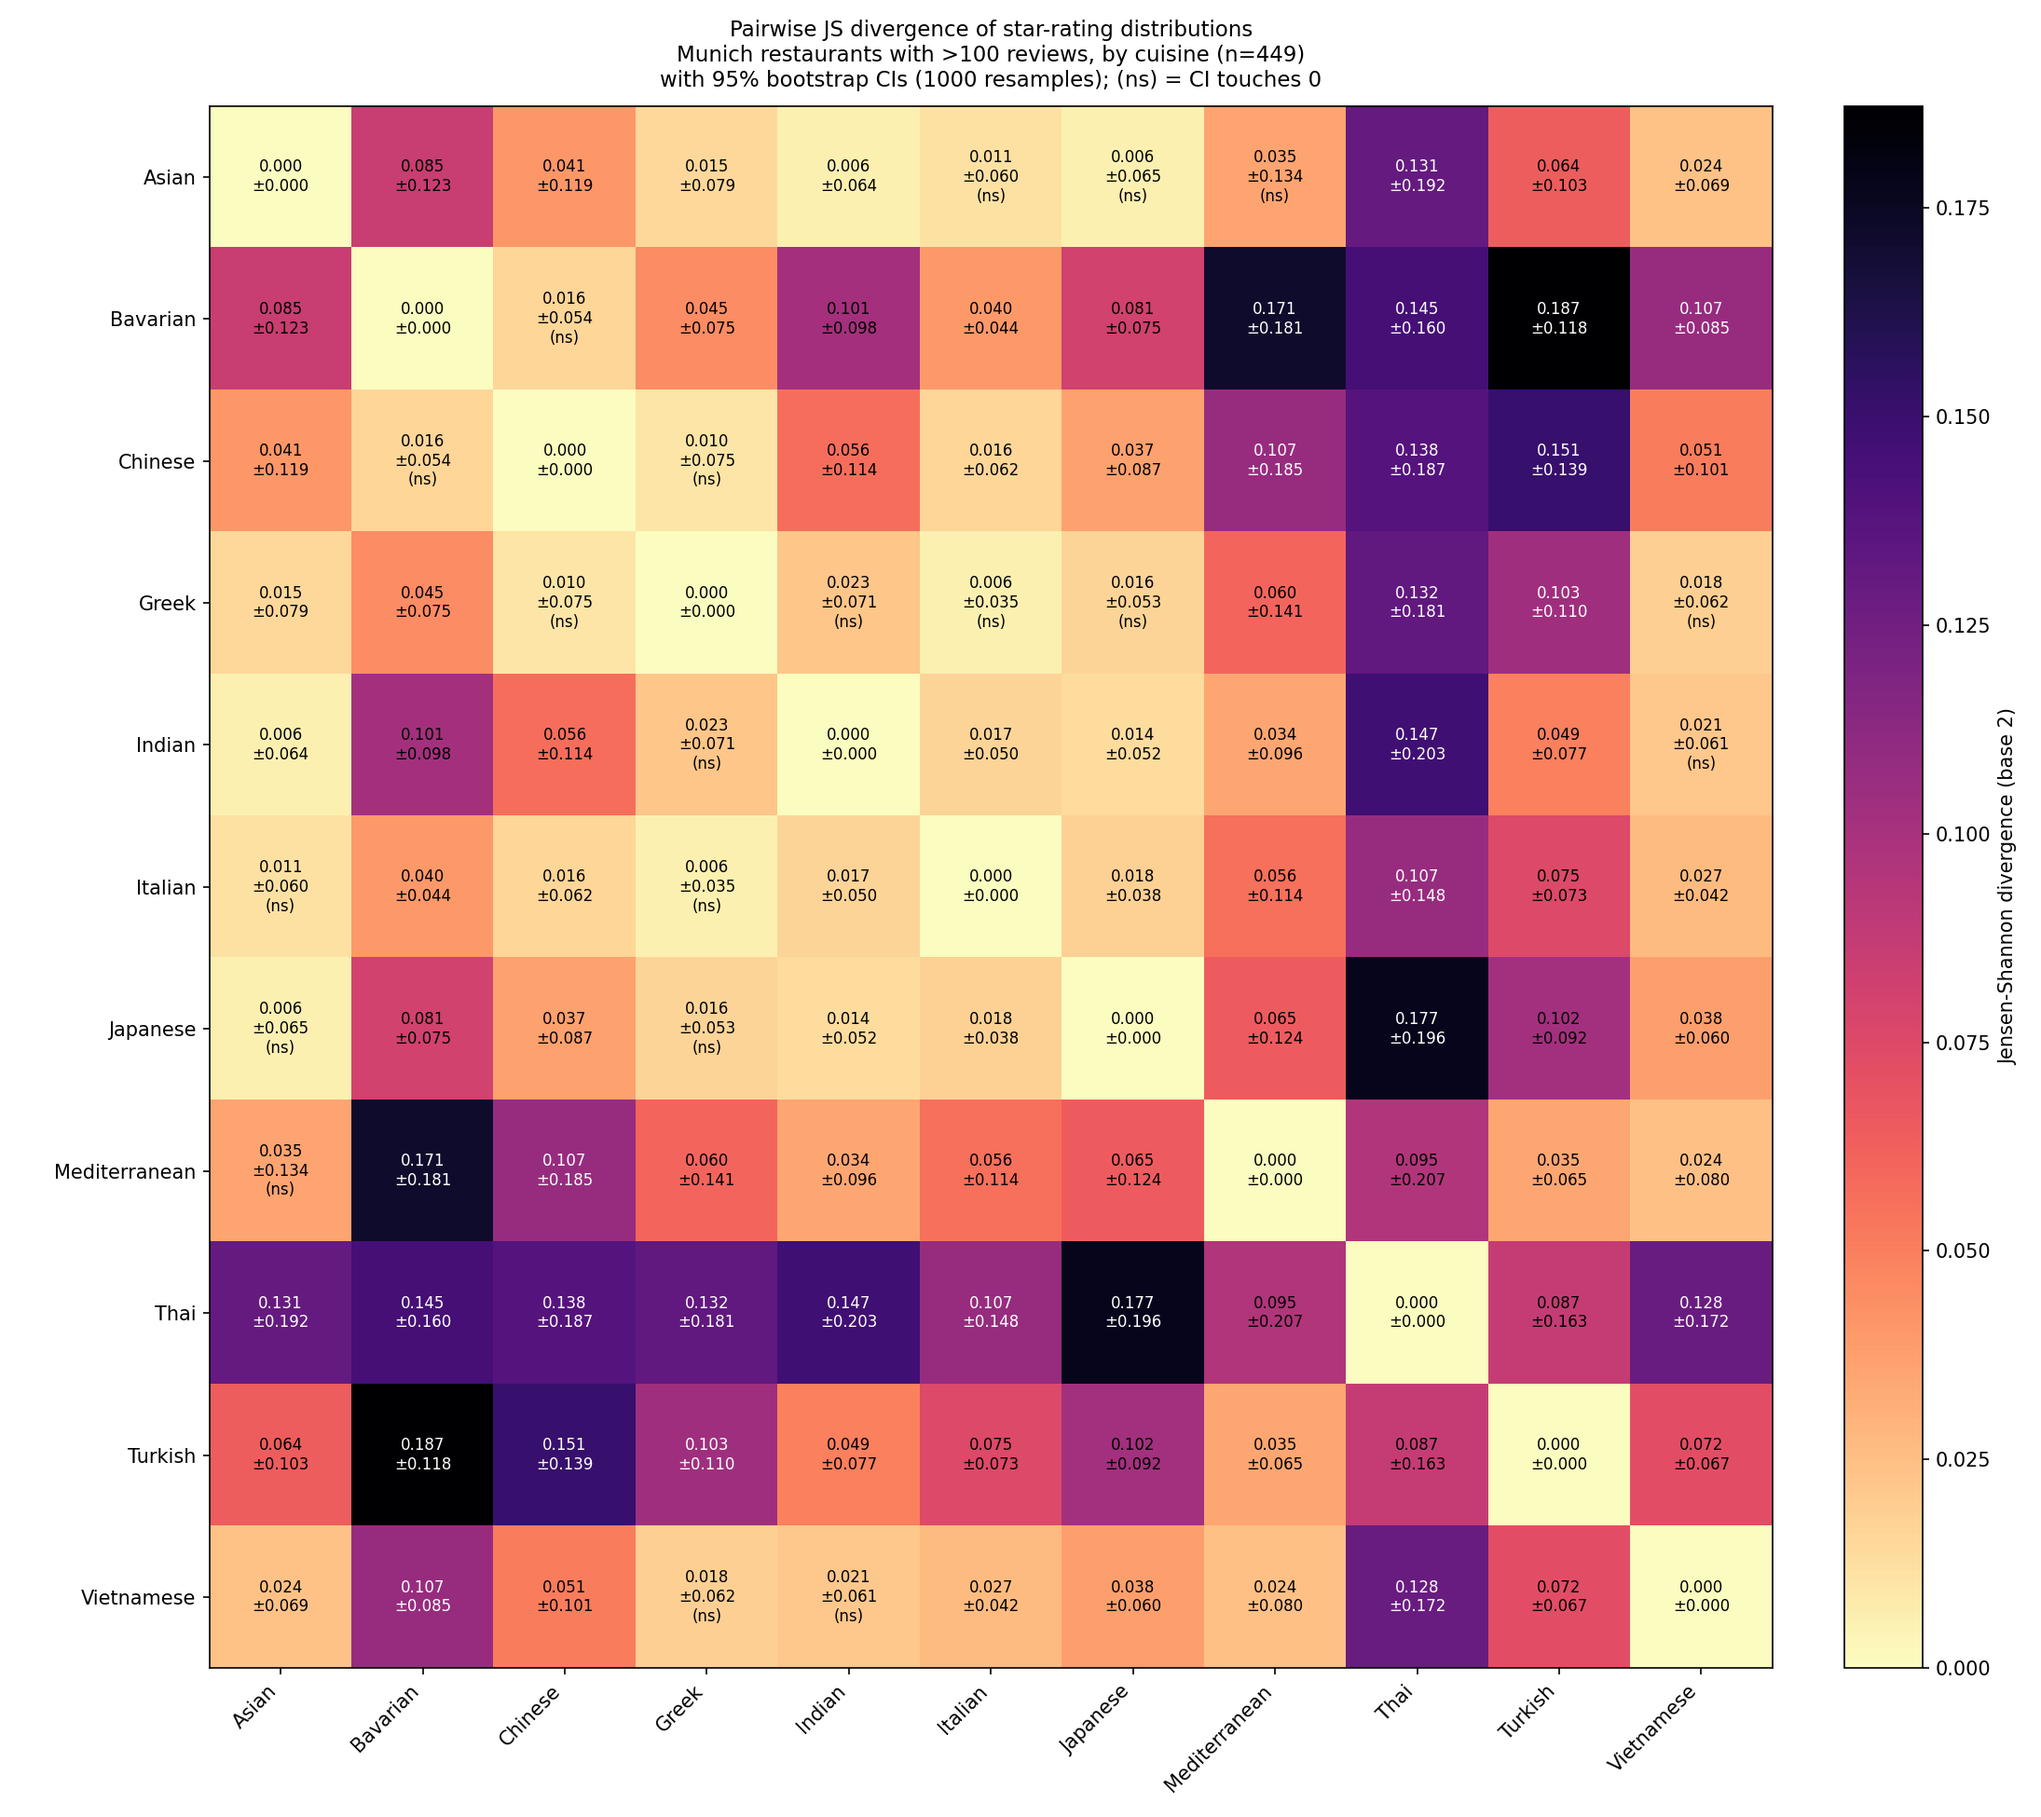
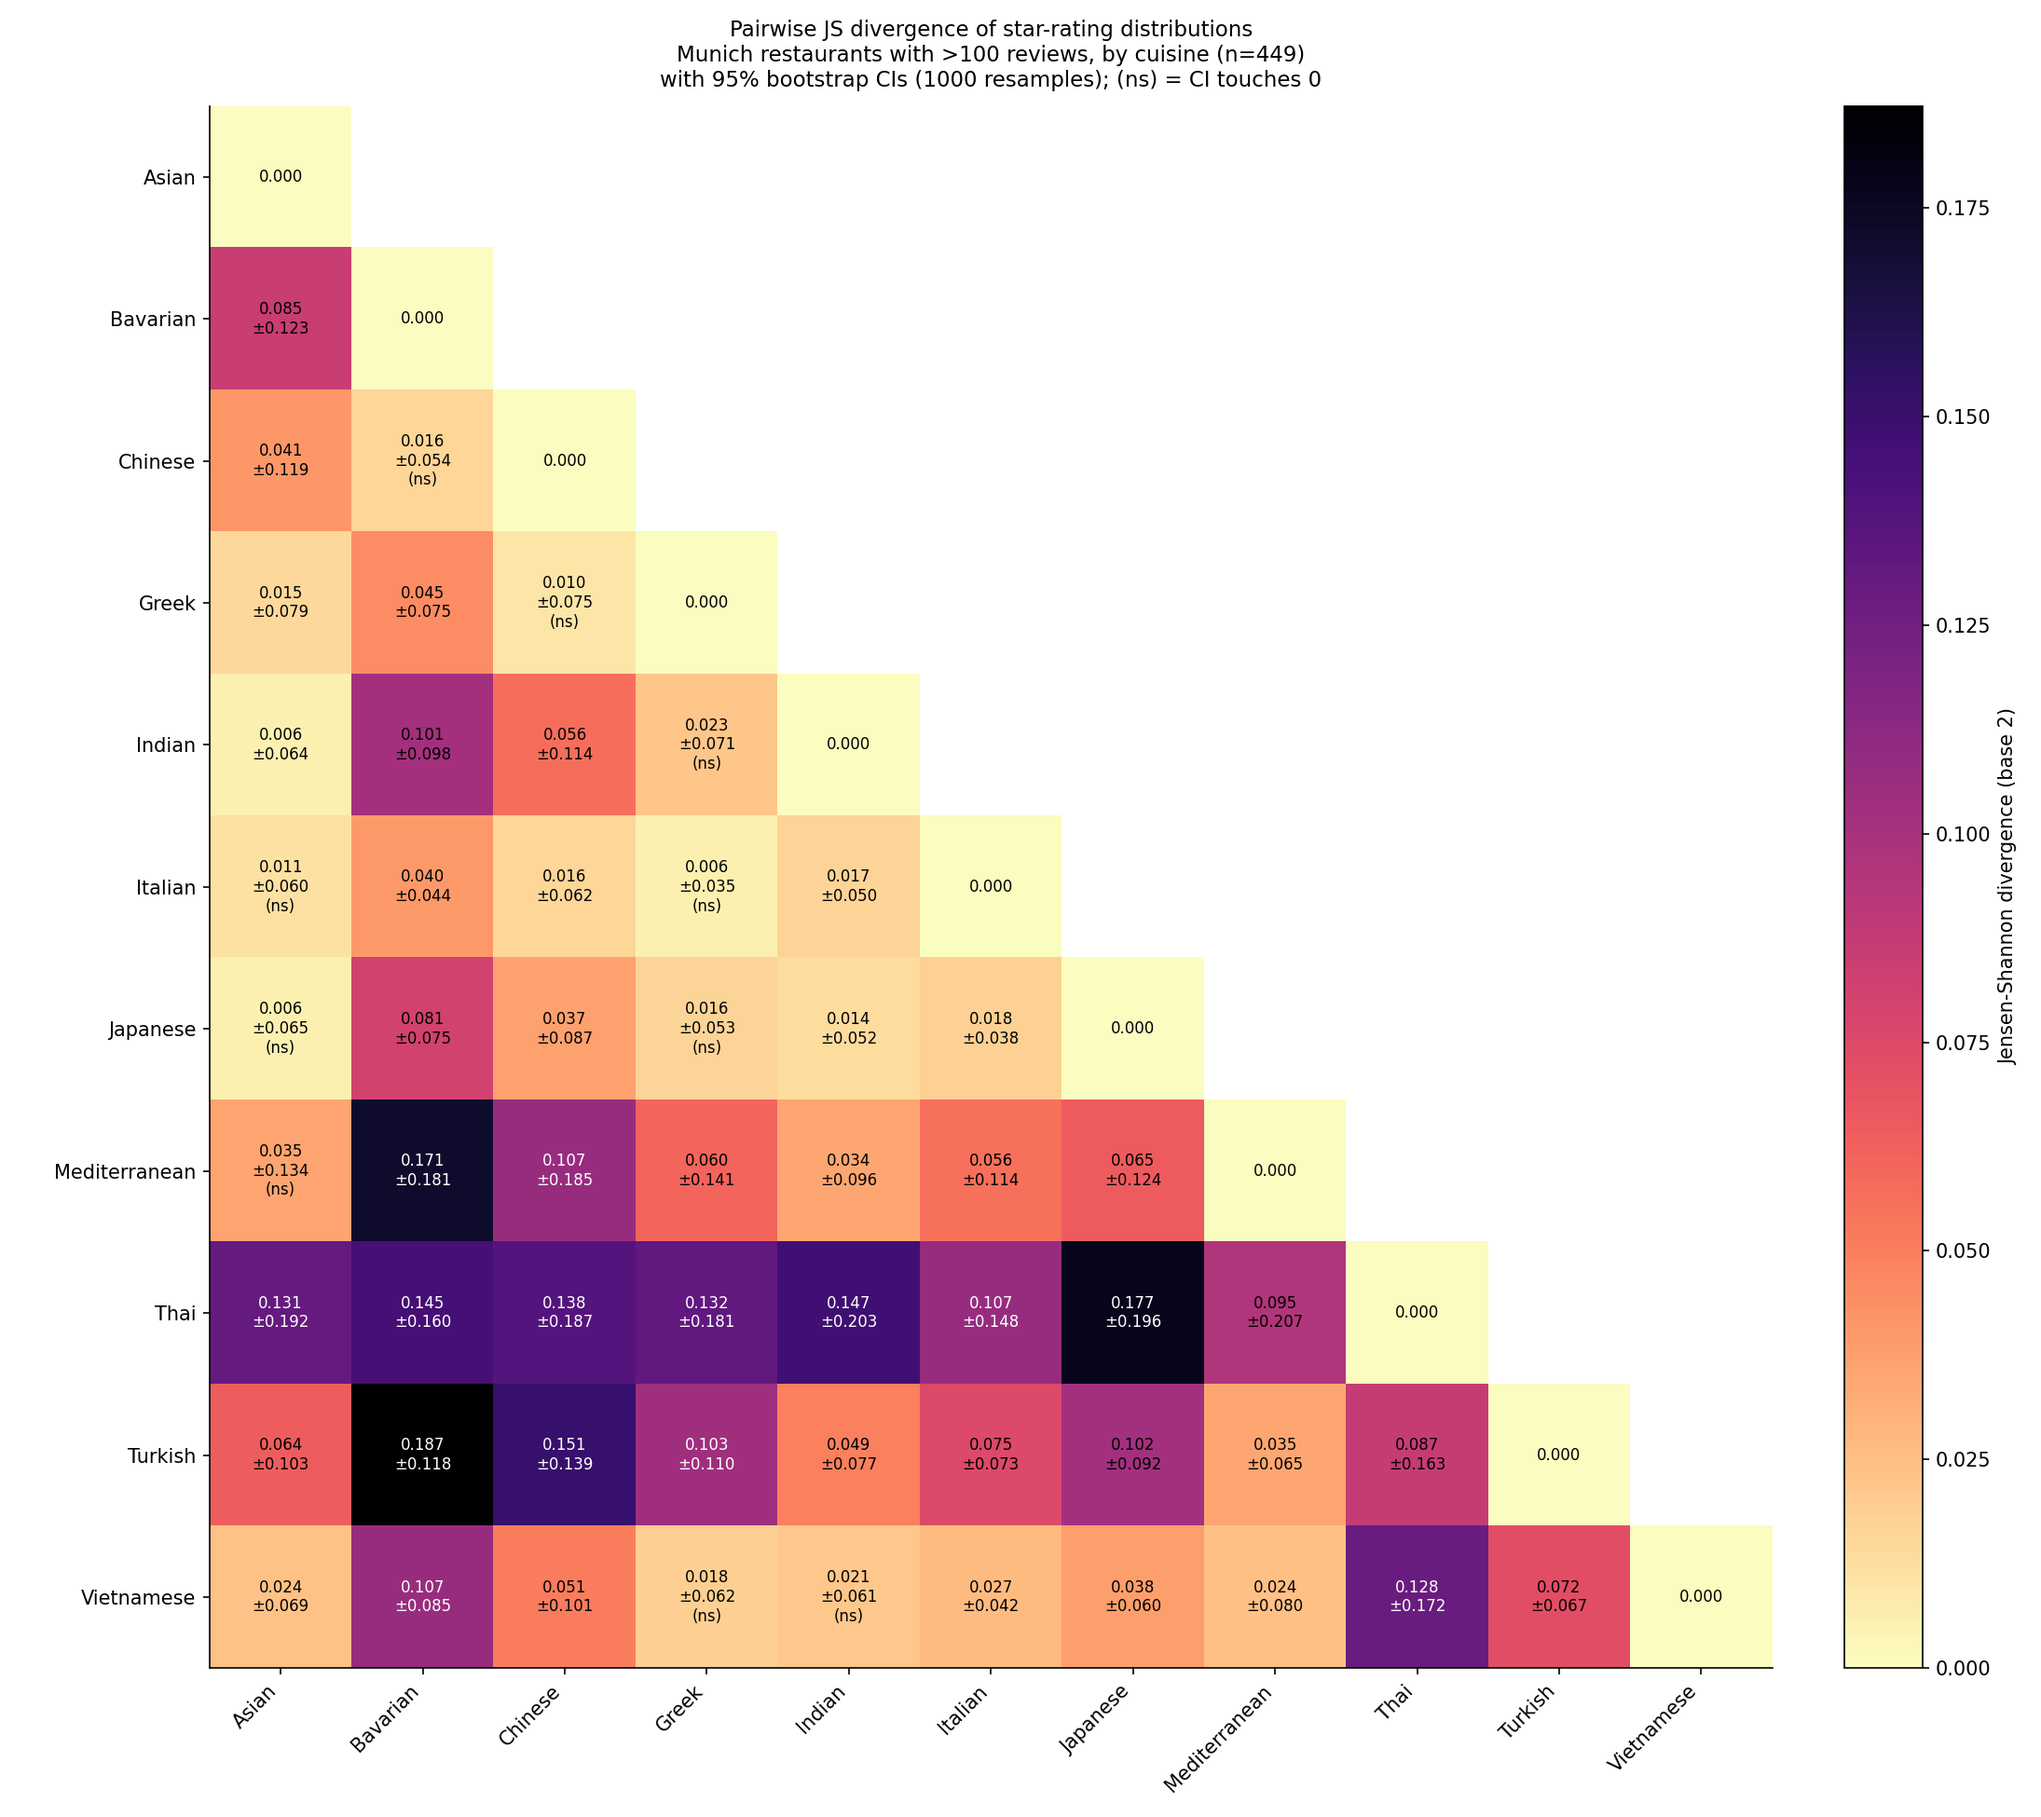
divergence: render only the lower triangle of the symmetric JSD heatmap
JSD(a,b)=JSD(b,a), so the upper triangle was just a mirror of the lower
and roughly doubled the visual noise. Masks the strict upper triangle
(j>i), keeps the diagonal so the cuisine labels stay aligned, and hides
the now-empty top/right spines.

diff --git a/divergence_pipeline.py b/divergence_pipeline.py
@@ -156,32 +156,45 @@ def bootstrap_jsd(rows, cuisines, n_boot=1000, rng=None):
 
 
 def plot(M, cuisines, out_png, n_places, M_lo=None, M_hi=None):
-    """Heatmap of JSD with optional CI annotations.
+    """Heatmap of JSD (lower triangle only) with optional CI annotations.
 
-    With bootstrap CIs, each cell shows `mean ± half_width` and a CI crossing
-    zero (or near-zero JSD lower bound) gets a small marker — those pairs are
-    statistically indistinguishable.
+    JSD is symmetric, so we render only the lower triangle (i >= j) — the
+    upper triangle is masked and rendered transparent, eliminating the
+    redundant copy. Diagonal entries are always 0 by definition; we keep
+    them so the cuisine labels stay aligned.
     """
     n = len(cuisines)
     fig, ax = plt.subplots(figsize=(max(7.5, 1.1 * n + 2.5), max(6, n + 2)))
-    im = ax.imshow(M, cmap="magma_r")
+
+    # Mask the strict upper triangle (j > i) so it doesn't render.
+    mask = np.triu(np.ones((n, n), dtype=bool), k=1)
+    M_disp = np.ma.array(M, mask=mask)
+    cmap = plt.get_cmap("magma_r").copy()
+    cmap.set_bad(color="white", alpha=0.0)
+
+    im = ax.imshow(M_disp, cmap=cmap)
     ax.set_xticks(range(n)); ax.set_yticks(range(n))
     ax.set_xticklabels(cuisines, rotation=45, ha="right")
     ax.set_yticklabels(cuisines)
+    # Hide the now-empty top/right spines.
+    ax.spines["top"].set_visible(False)
+    ax.spines["right"].set_visible(False)
+
+    vmax = float(M_disp.max())  # for picking text contrast on the visible cells
     for i in range(n):
-        for j in range(n):
+        for j in range(i + 1):  # lower triangle including diagonal
             v = M[i, j]
             label = f"{v:.3f}"
-            if M_lo is not None:
+            if M_lo is not None and i != j:
                 half = (M_hi[i, j] - M_lo[i, j]) / 2
                 label = f"{v:.3f}\n±{half:.3f}"
                 # Mark cells whose CI lower bound is below 0.005 — pairs of
                 # JSDs that small (with smoothing) are effectively zero, so
                 # we can't reject "same distribution" at 95%.
-                if M_lo[i, j] <= 0.005 and i != j:
+                if M_lo[i, j] <= 0.005:
                     label += "\n(ns)"
             ax.text(j, i, label, ha="center", va="center",
-                    color="white" if v > M.max() * 0.55 else "black", fontsize=8)
+                    color="white" if v > vmax * 0.55 else "black", fontsize=8)
     cbar = fig.colorbar(im, ax=ax, fraction=0.046, pad=0.04)
     cbar.set_label("Jensen-Shannon divergence (base 2)", fontsize=10)
     subtitle = (
